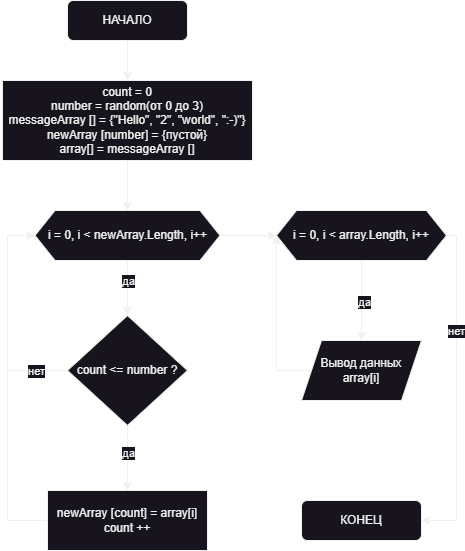
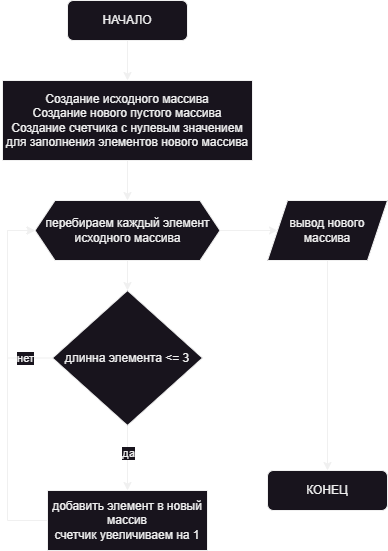
Editing a program

diff --git a/task_1/Program.cs b/task_1/Program.cs
@@ -12,7 +12,7 @@
 using System.Linq.Expressions;
 using System.Runtime.InteropServices;
 
-string[] messageArray = new string[] {"Hello", "2", "world", ":-)"};
+string[] messageArray = new string[] { "Hello", "2", "world", ":-)"};
 string[] array = ResultArray(messageArray);
 Console.Clear();
 PrintArray(messageArray);
@@ -22,22 +22,24 @@ PrintArray(array);
 string[] ResultArray(string[] array)
 {
     int count = 0;
-    Random rand = new Random();
-    int number = rand.Next(0,4);
-    string[] newArray = new string [number];
-    for(int i = 0; i < newArray.Length; i++)
-    if(count <= number)
+    string[] newArray = new string[array.Length];
+    for (int i = 0; i < array.Length; i++)
     {
-        newArray[count] = array[i];
-        count++;
+        if (array[i].Length <= 3)
+        {
+            newArray[count] = array[i];
+            count++;
+        }
     }
+    if (newArray.Length > count + 1)
+        Array.Resize(ref newArray, count);
     return newArray;
 }
 
 void PrintArray(string[] array)
 {
     Console.Write("[");
-    for(int i = 0; i < array.Length; i++)
+    for (int i = 0; i < array.Length; i++)
     {
         Console.Write(" {" + array[i] + "} ");
     }

diff --git a/README.md b/README.md
@@ -20,10 +20,10 @@
 ~~~
 - на вход принимает строковый массив;
 - создает целоцисленную переменную count и присваивает значение 0, она нужна для параллельного счетчика в новом массиве;
-- создает целоцисленную переменную number, которой с помощью генератора случайных числ, присваивает значене от 0 до 3 (расмерность нового массива);
-- создает новый строковый массив newArray с длинной, заданной переменной number;
-- циклом for перебирает массив, пока не достигнет длинны исходного массива, внутри цикла, проверяет циклом if следующее условие, количество элементов нового цикла не должно превышать число 3, при этом условии заполняет новый массив newArray;
-- возвращает новый строковый массив с числом элементов от 0 до 3.
+- создает новый строковый массив newArray с длинной, равной длине исходного массива;
+- циклом for перебирает массив, пока не достигнет длинны исходного массива, внутри цикла, проверяет оперотором if следующее, длинна элемента исходного массива не должна превышать число 3, при этом условии заполняется новый массив newArray элементом с длинной до 3 символов;
+- оператором if уменьшает длинну нового массива до количества элементов;
+- возвращает новый строковый массив.
 ~~~
 2. ***Создаем метод PrintArray, который:***
 
